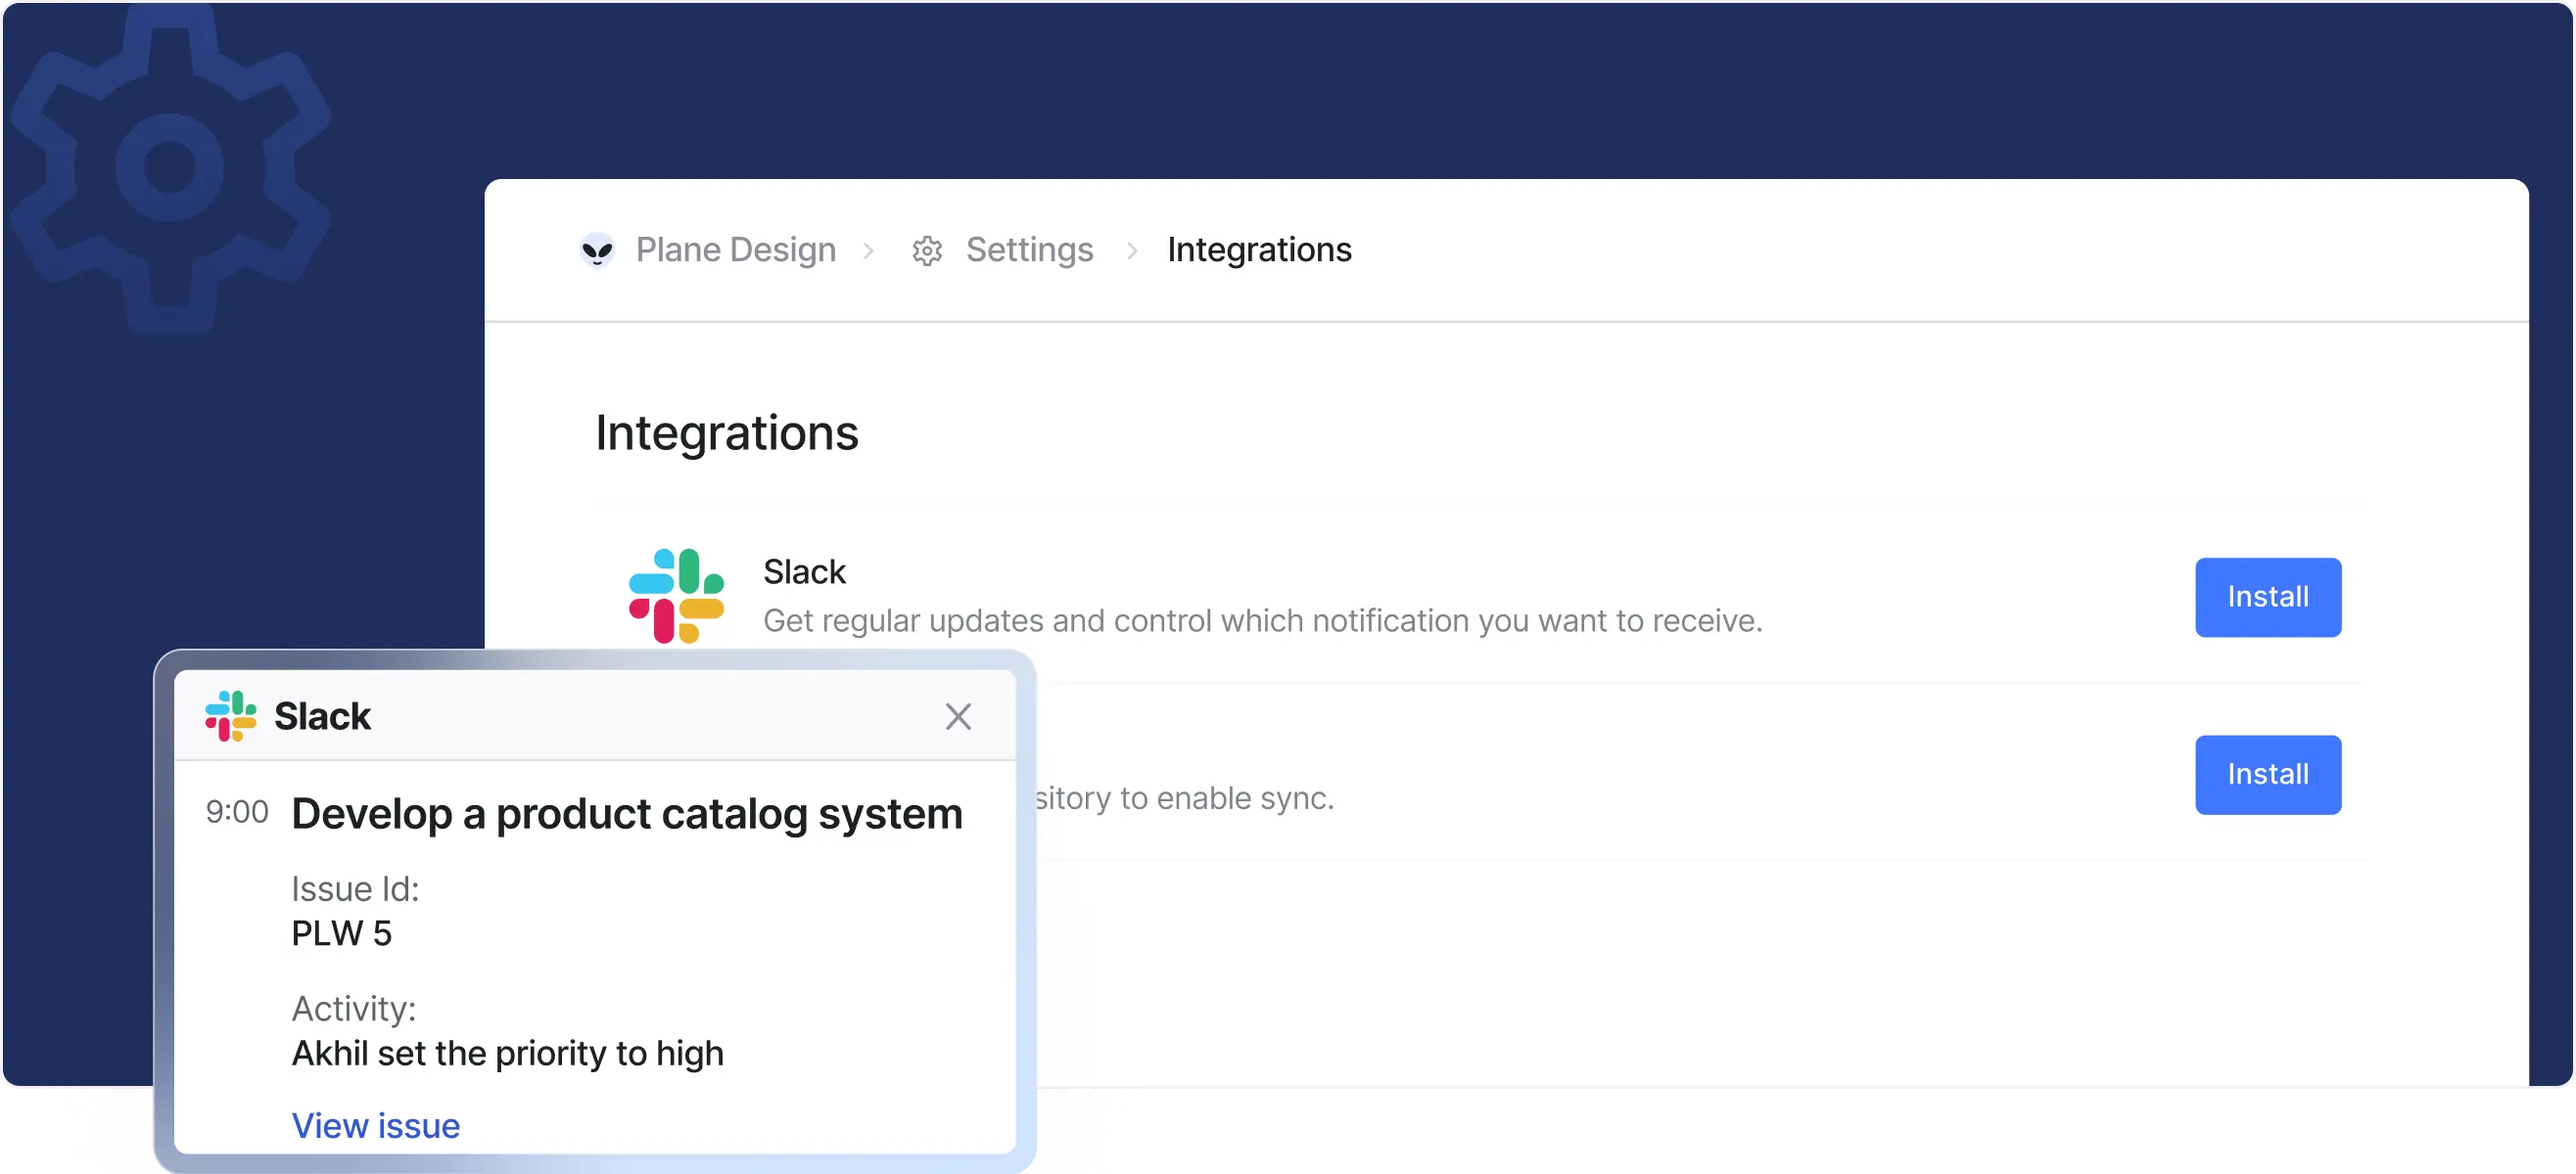
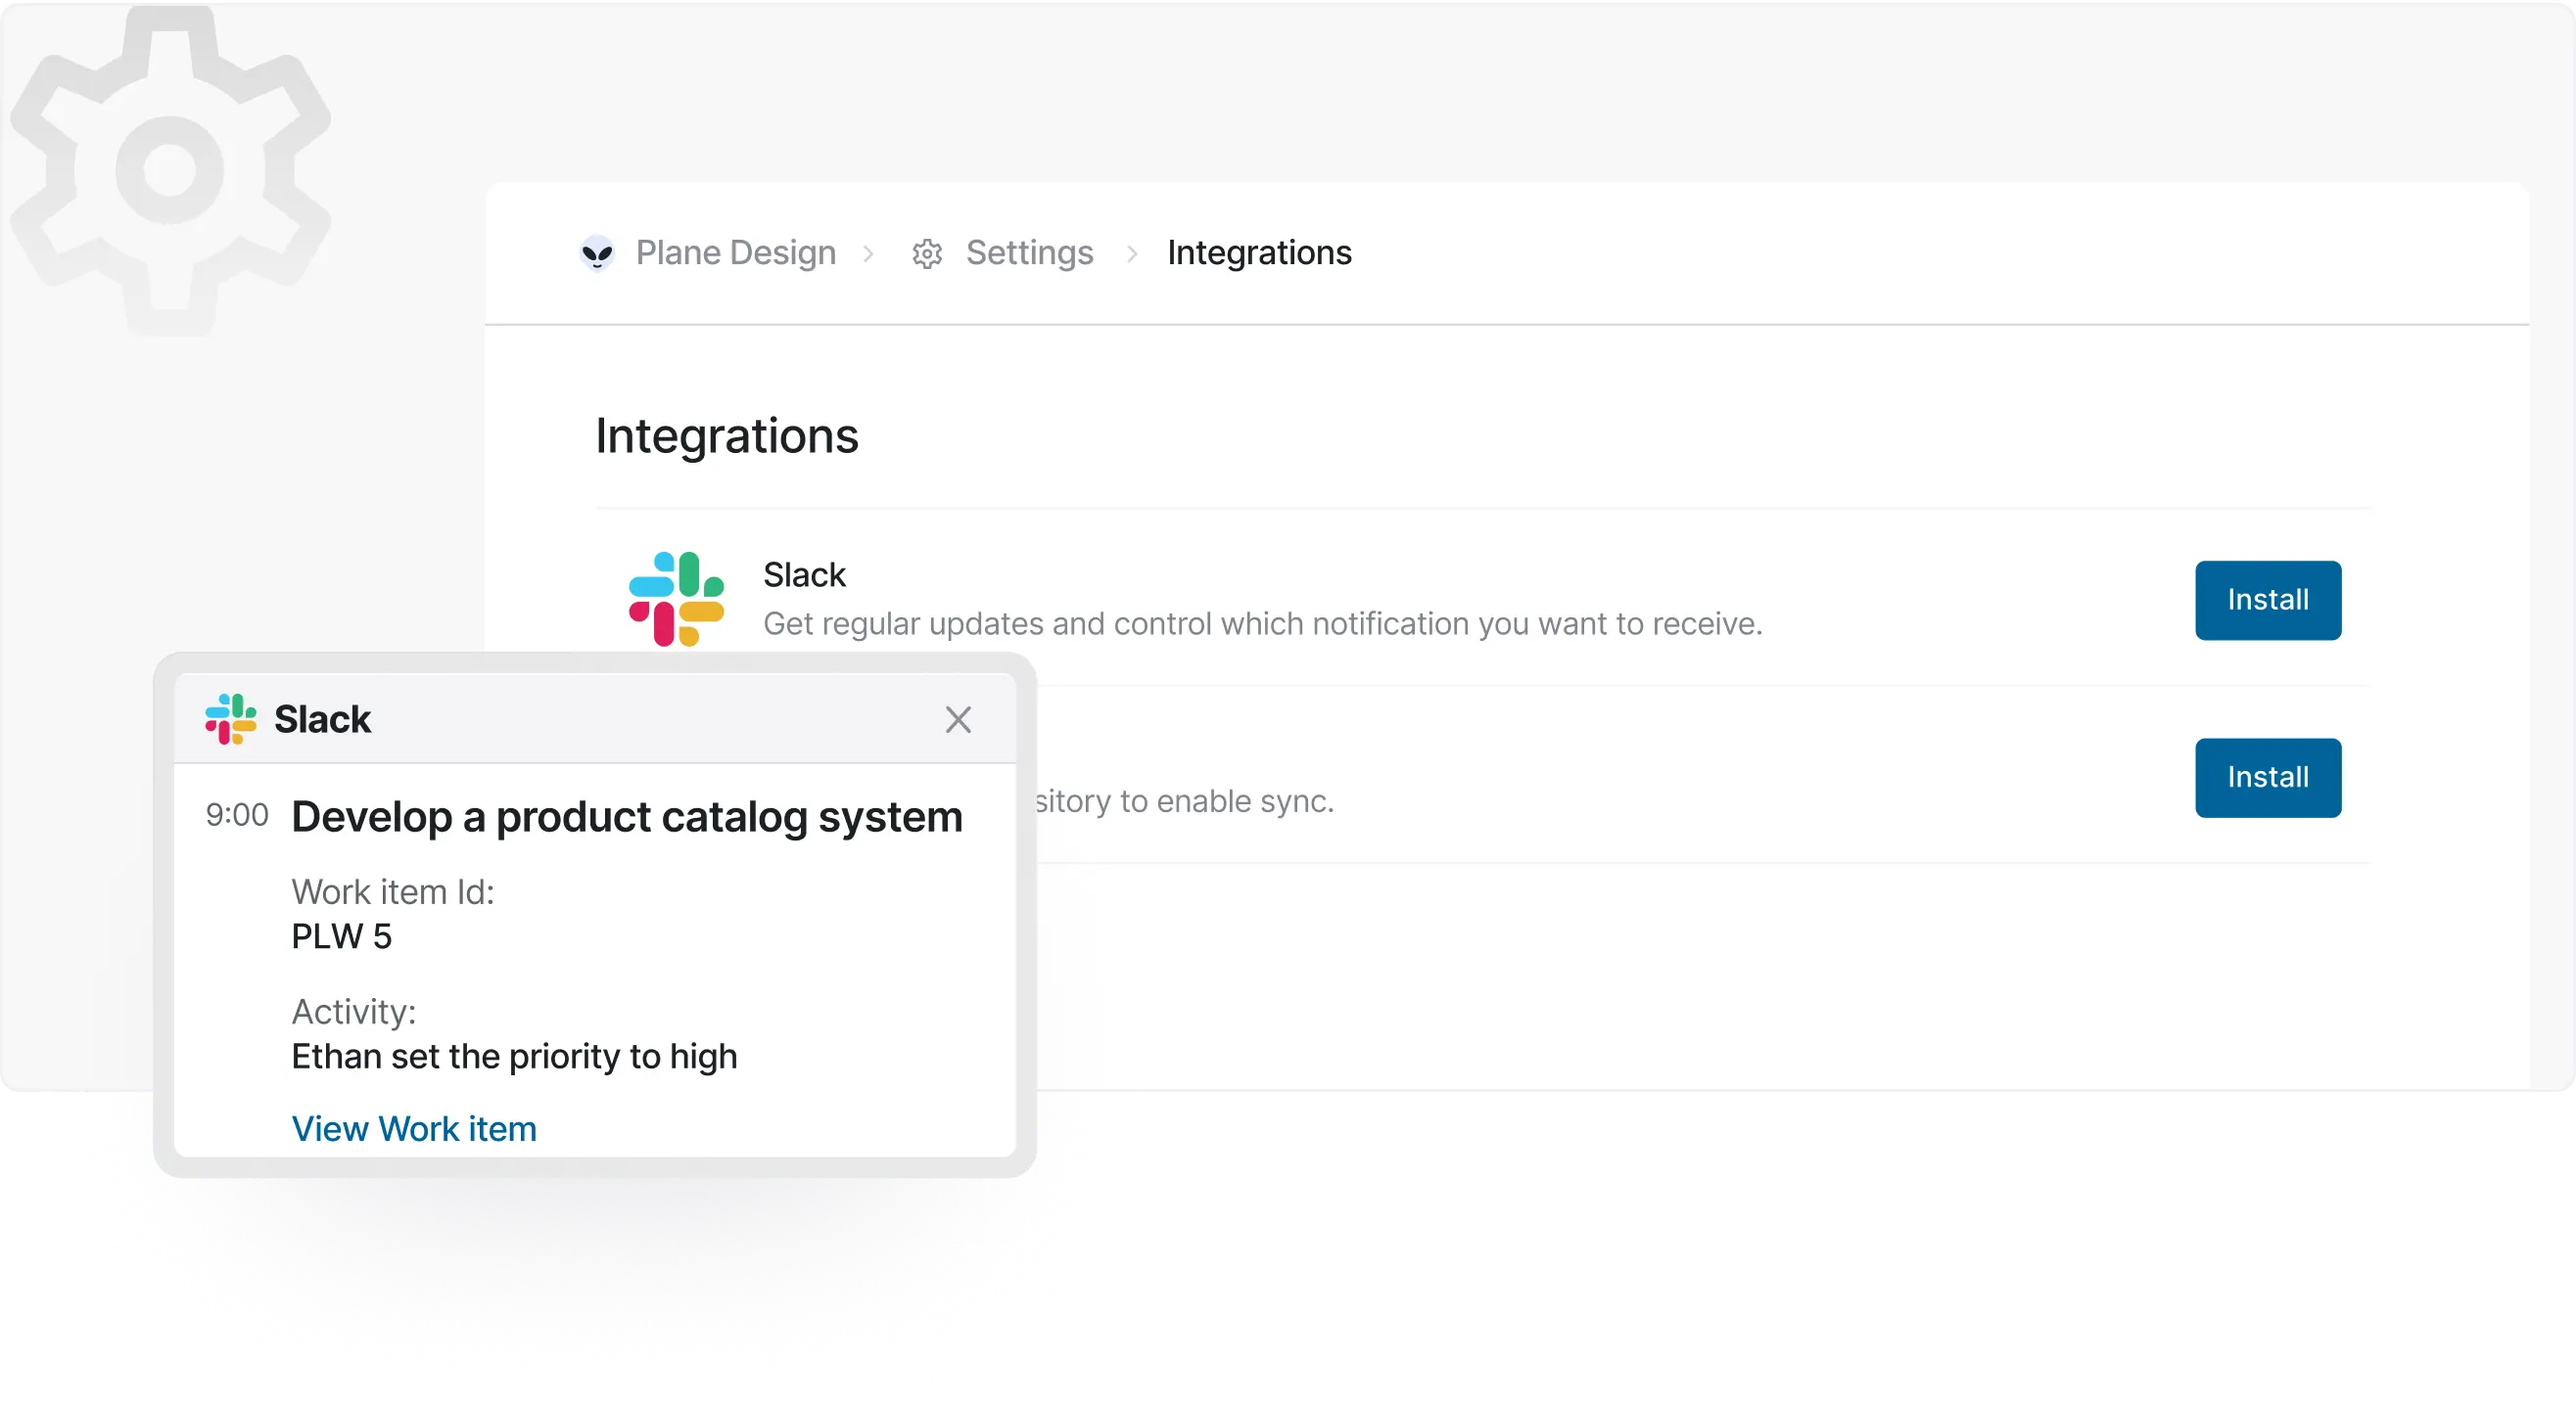
[WEB-4539] chore: updated tour modal colors (#3817)
* chore: updated tour modal colors

* chore: upgrade screen gradient color

* chore: code refactor

* chore: updated avatar to workspace

---------

diff --git a/apps/web/core/components/onboarding/tour/root.tsx b/apps/web/core/components/onboarding/tour/root.tsx
@@ -5,7 +5,7 @@ import { useParams } from "next/navigation";
 import { ArrowRight } from "lucide-react";
 import { Avatar, Button, PlaneLockup } from "@plane/ui";
 import { getFileURL } from "@plane/utils";
-import { useUser, useWorkspace } from "@/hooks/store";
+import { useWorkspace } from "@/hooks/store";
 
 export type TTourSteps = "welcome" | "work-items" | "cycles" | "modules" | "views" | "pages";
 
@@ -43,14 +43,13 @@ type Props = {
 export const TourRoot: React.FC<Props> = observer((props) => {
   const { onComplete } = props;
   const { workspaceSlug } = useParams();
-  const { data: currentUser } = useUser();
   const { getWorkspaceBySlug } = useWorkspace();
   const currentWorkspace = getWorkspaceBySlug(workspaceSlug.toString());
 
-  if (!currentUser) return null;
+  if (!currentWorkspace) return null;
 
   return (
-    <div className="flex bg-custom-primary-200 rounded-lg w-[60%]">
+    <div className="flex bg-[#006399] rounded-lg w-[60%]">
       <div className="w-[40%] py-9 px-8 flex flex-col gap-5 justify-around">
         <div className="font-medium text-white flex items-center gap-2 justify-center">
           <PlaneLockup className="h-6 w-auto" /> <span className="font-bold text-2xl mt-2">Business</span>
@@ -69,7 +68,12 @@ export const TourRoot: React.FC<Props> = observer((props) => {
           <p className="font-medium text-custom-text-100 text-lg">
             Features you&apos;ll get with <span className="text-custom-primary-90">Business</span> plan
           </p>
-          <Avatar src={getFileURL(currentUser.avatar_url)} size={30} shape="square" />
+          <Avatar
+            src={getFileURL(currentWorkspace.logo_url || "")}
+            name={currentWorkspace?.name}
+            size={30}
+            shape="square"
+          />
           <p>
             <span className="font-medium">{currentWorkspace?.name}</span> workspace with Business
           </p>

diff --git a/apps/web/ee/components/templates/settings/upgrade.tsx b/apps/web/ee/components/templates/settings/upgrade.tsx
@@ -34,7 +34,8 @@ export const TemplatesUpgrade: FC<TTemplatesUpgradeProps> = observer((props: TTe
       <div
         className={cn("flex flex-col rounded-xl mt-5 xl:flex-row", {
           "bg-gradient-to-l from-[#CFCFCF]  to-[#212121]": resolvedTheme?.includes("dark"),
-          "bg-gradient-to-l from-[#3b5ec6] to-[#f5f7fe]": !resolvedTheme?.includes("dark"),
+          "bg-gradient-to-l from-[#EBEBEB] to-[#FAFAFA] border border-custom-border-400":
+            !resolvedTheme?.includes("dark"),
         })}
       >
         <div className={cn("flex w-full flex-col  justify-center relative p-5 xl:pl-10 xl:min-h-[25rem]")}>

diff --git a/apps/web/ee/components/customers/upgrade.tsx b/apps/web/ee/components/customers/upgrade.tsx
@@ -26,7 +26,8 @@ export const CustomerUpgrade: FC = observer(() => {
         <div
           className={cn("flex flex-col rounded-xl mt-5 xl:flex-row", {
             "bg-gradient-to-l from-[#CFCFCF]  to-[#212121]": resolvedTheme?.includes("dark"),
-            "bg-gradient-to-l from-[#3b5ec6] to-[#f5f7fe]": !resolvedTheme?.includes("dark"),
+            "bg-gradient-to-l from-[#EBEBEB] to-[#FAFAFA] border border-custom-border-400":
+              !resolvedTheme?.includes("dark"),
           })}
         >
           <div className={cn("flex w-full flex-col  justify-center relative p-5 xl:pl-10 xl:min-h-[25rem]")}>

diff --git a/apps/web/ee/components/initiatives/upgrade.tsx b/apps/web/ee/components/initiatives/upgrade.tsx
@@ -99,7 +99,8 @@ export const InitiativesUpgrade: FC<Props> = observer((props) => {
       <div
         className={cn("flex flex-col rounded-xl mt-5 xl:flex-row", {
           "bg-gradient-to-l from-[#CFCFCF]  to-[#212121]": resolvedTheme?.includes("dark"),
-          "bg-gradient-to-l from-[#3b5ec6] to-[#f5f7fe]": !resolvedTheme?.includes("dark"),
+          "bg-gradient-to-l from-[#EBEBEB] to-[#FAFAFA] border border-custom-border-400":
+            !resolvedTheme?.includes("dark"),
         })}
       >
         <div className={cn("flex w-full flex-col  justify-center relative p-5 xl:pl-10 xl:min-h-[25rem]")}>

diff --git a/apps/web/ce/components/active-cycles/workspace-active-cycles-upgrade.tsx b/apps/web/ce/components/active-cycles/workspace-active-cycles-upgrade.tsx
@@ -70,7 +70,8 @@ export const WorkspaceActiveCyclesUpgrade = observer(() => {
       <div
         className={cn("item-center flex min-h-[25rem] justify-between rounded-xl", {
           "bg-gradient-to-l from-[#CFCFCF]  to-[#212121]": userProfile?.theme.theme === "dark",
-          "bg-gradient-to-l from-[#3b5ec6] to-[#f5f7fe]": userProfile?.theme.theme === "light",
+          "bg-gradient-to-l from-[#EBEBEB] to-[#FAFAFA] border border-custom-border-400":
+            userProfile?.theme.theme === "light",
         })}
       >
         <div className="relative flex flex-col justify-center gap-7 px-14 lg:w-1/2">

diff --git a/apps/web/ee/components/active-cycles/workspace-active-cycles-upgrade.tsx b/apps/web/ee/components/active-cycles/workspace-active-cycles-upgrade.tsx
@@ -69,7 +69,8 @@ export const WorkspaceActiveCyclesUpgrade = observer(() => {
       <div
         className={cn("item-center flex min-h-[25rem] justify-between rounded-xl", {
           "bg-gradient-to-l from-[#CFCFCF]  to-[#212121]": userProfile?.theme.theme === "dark",
-          "bg-gradient-to-l from-[#3b5ec6] to-[#f5f7fe]": userProfile?.theme.theme === "light",
+          "bg-gradient-to-l from-[#EBEBEB] to-[#FAFAFA] border border-custom-border-400":
+            userProfile?.theme.theme === "light",
         })}
       >
         <div className="relative flex flex-col justify-center gap-7 px-14 lg:w-1/2">

diff --git a/apps/web/ee/components/epics/upgrade.tsx b/apps/web/ee/components/epics/upgrade.tsx
@@ -48,7 +48,8 @@ export const EpicsUpgrade: FC = observer(() => {
       <div
         className={cn("flex flex-col md:flex-row rounded-xl mt-5 xl:flex-row", {
           "bg-gradient-to-l from-[#CFCFCF]  to-[#212121]": resolvedTheme?.includes("dark"),
-          "bg-gradient-to-l from-[#3b5ec6] to-[#f5f7fe]": !resolvedTheme?.includes("dark"),
+          "bg-gradient-to-l from-[#EBEBEB] to-[#FAFAFA] border border-custom-border-400":
+            !resolvedTheme?.includes("dark"),
         })}
       >
         <div className={cn("flex w-full flex-col  justify-center relative p-5 xl:pl-10 xl:min-h-[25rem]")}>

diff --git a/apps/web/ee/components/marketplace/applications/applications-upgrade.tsx b/apps/web/ee/components/marketplace/applications/applications-upgrade.tsx
@@ -29,7 +29,8 @@ export const ApplicationsUpgrade: FC = observer(() => {
       <div
         className={cn("flex flex-col rounded-xl mt-5 xl:flex-row", {
           "bg-gradient-to-l from-[#CFCFCF]  to-[#212121]": resolvedTheme?.includes("dark"),
-          "bg-gradient-to-l from-[#3b5ec6] to-[#f5f7fe]": !resolvedTheme?.includes("dark"),
+          "bg-gradient-to-l from-[#EBEBEB] to-[#FAFAFA] border border-custom-border-400":
+            !resolvedTheme?.includes("dark"),
         })}
       >
         <div className={cn("flex w-full flex-col  justify-center relative p-5 xl:pl-10 xl:min-h-[25rem]")}>

diff --git a/apps/web/ee/components/project-overview/upgrade.tsx b/apps/web/ee/components/project-overview/upgrade.tsx
@@ -28,7 +28,8 @@ export const ProjectUpdatesUpgrade = observer(() => {
       <div
         className={cn("flex flex-col rounded-xl mt-5 xl:flex-row", {
           "bg-gradient-to-l from-[#CFCFCF]  to-[#212121]": resolvedTheme?.includes("dark"),
-          "bg-gradient-to-l from-[#3b5ec6] to-[#f5f7fe]": !resolvedTheme?.includes("dark"),
+          "bg-gradient-to-l from-[#EBEBEB] to-[#FAFAFA] border border-custom-border-400":
+            !resolvedTheme?.includes("dark"),
         })}
       >
         <div className={cn("flex w-full flex-col  justify-center relative p-5 xl:pl-10 xl:min-h-[25rem]")}>

diff --git a/apps/web/ee/components/teamspaces/upgrade.tsx b/apps/web/ee/components/teamspaces/upgrade.tsx
@@ -55,7 +55,8 @@ export const TeamspaceUpgrade: FC = observer(() => {
       <div
         className={cn("flex flex-col rounded-xl mt-5 xl:flex-row", {
           "bg-gradient-to-l from-[#CFCFCF]  to-[#212121]": resolvedTheme?.includes("dark"),
-          "bg-gradient-to-l from-[#3b5ec6] to-[#f5f7fe]": !resolvedTheme?.includes("dark"),
+          "bg-gradient-to-l from-[#EBEBEB] to-[#FAFAFA] border border-custom-border-400":
+            !resolvedTheme?.includes("dark"),
         })}
       >
         <div className={cn("flex w-full flex-col  justify-center relative p-5 xl:pl-10 xl:min-h-[25rem]")}>

diff --git a/apps/web/ee/components/workflow/page/upgrade.tsx b/apps/web/ee/components/workflow/page/upgrade.tsx
@@ -28,7 +28,8 @@ export const WorkflowUpgrade: FC = observer(() => {
     <div
       className={cn("flex flex-col rounded-xl mt-5 xl:flex-row", {
         "bg-gradient-to-l from-[#CFCFCF]  to-[#212121]": resolvedTheme?.includes("dark"),
-        "bg-gradient-to-l from-[#3b5ec6] to-[#f5f7fe]": !resolvedTheme?.includes("dark"),
+        "bg-gradient-to-l from-[#EBEBEB] to-[#FAFAFA] border border-custom-border-400":
+          !resolvedTheme?.includes("dark"),
       })}
     >
       <div className={cn("flex w-full flex-col  justify-center relative p-5 xl:pl-10 xl:min-h-[25rem]")}>

diff --git a/apps/web/core/components/importers/empty-state.tsx b/apps/web/core/components/importers/empty-state.tsx
@@ -22,7 +22,7 @@ export const ImportersEmptyState: FC<ImportersEmptyStateProps> = observer((props
       <div
         className={cn("item-center flex min-h-[25rem] justify-between rounded-xl", {
           "bg-gradient-to-l from-[#343434] via-[#484848]  to-[#1E1E1E]": theme === "dark",
-          "bg-gradient-to-l from-[#3b5ec6] to-[#f5f7fe]": theme === "light",
+          "bg-gradient-to-l from-[#EBEBEB] to-[#FAFAFA] border border-custom-border-400": theme === "light",
         })}
       >
         <div className="relative flex flex-col justify-center gap-7 pl-8 lg:w-1/2">
